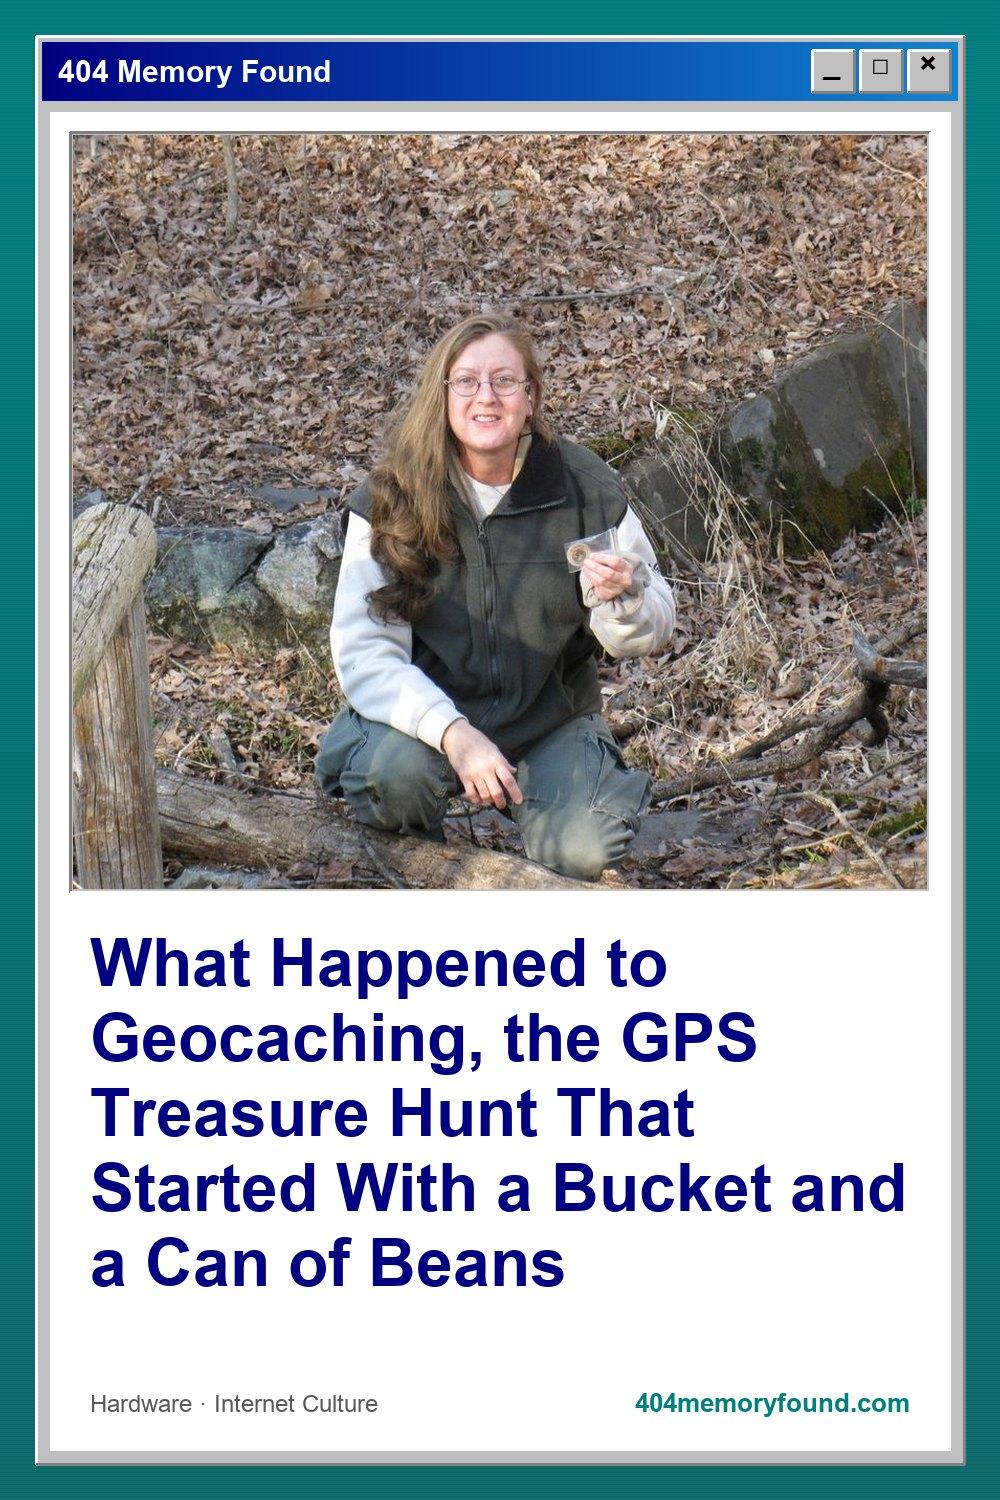
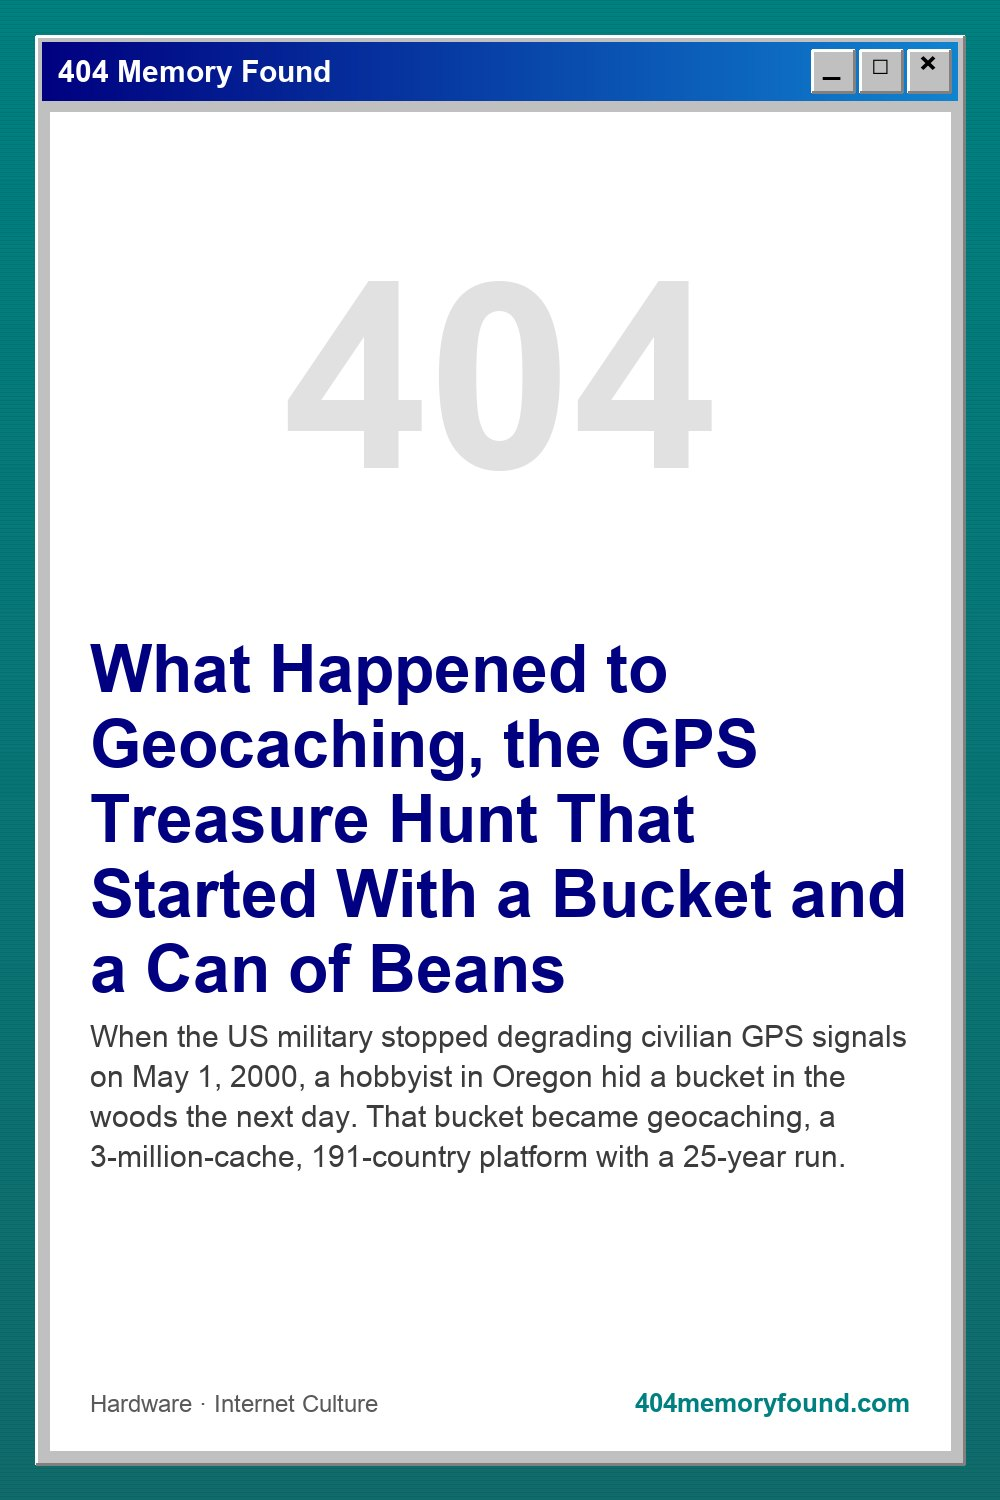
Cards: body-photo fallback only when its alt text names the subject

diff --git a/make_og_cards.py b/make_og_cards.py
@@ -130,14 +130,40 @@ def photo_panel(im, path, box):
     return True
 
 
+STOP = {"what", "happened", "the", "that", "with", "from", "and", "how", "why", "who", "its", "was", "for", "into",
+        "then", "now", "story", "history", "real", "behind", "actually", "failed", "lost", "still", "ever", "made"}
+
+
+def subject_words(post):
+    words = set(re.findall(r"[a-z0-9]+", post["title"].lower()))
+    for phrase in post.get("linkPhrases") or []:
+        words |= set(re.findall(r"[a-z0-9]+", phrase.lower()))
+    return {w for w in words if len(w) >= 4 and w not in STOP}
+
+
 def hero_path(post, manifest):
-    """Local hero photo; falls back to the first photo used inside the post body."""
-    candidates = [post.get("image") or ""] + re.findall(r'<img[^>]*src="([^"]+)"', post.get("body", ""))
-    for url in candidates:
+    """Local hero photo. Falls back to a body photo only when its alt text names the post's subject,
+    so a Clippy card never ends up wearing a Netscape screenshot."""
+    def local(url):
         info = manifest.get(url, {})
         if info.get("status") == "ok":
             path = info["file"].lstrip("/")
-            if os.path.exists(path):
+            return path if os.path.exists(path) else None
+        return None
+
+    hero = local(post.get("image") or "")
+    if hero:
+        return hero
+    words = subject_words(post)
+    for tag in re.findall(r"<img[^>]*>", post.get("body", "")):
+        src = re.search(r'src="([^"]+)"', tag)
+        alt = re.search(r'alt="([^"]*)"', tag)
+        if not src or not alt:
+            continue
+        alt_words = set(re.findall(r"[a-z0-9]+", alt.group(1).lower()))
+        if words & alt_words:
+            path = local(src.group(1))
+            if path:
                 return path
     return None
 
